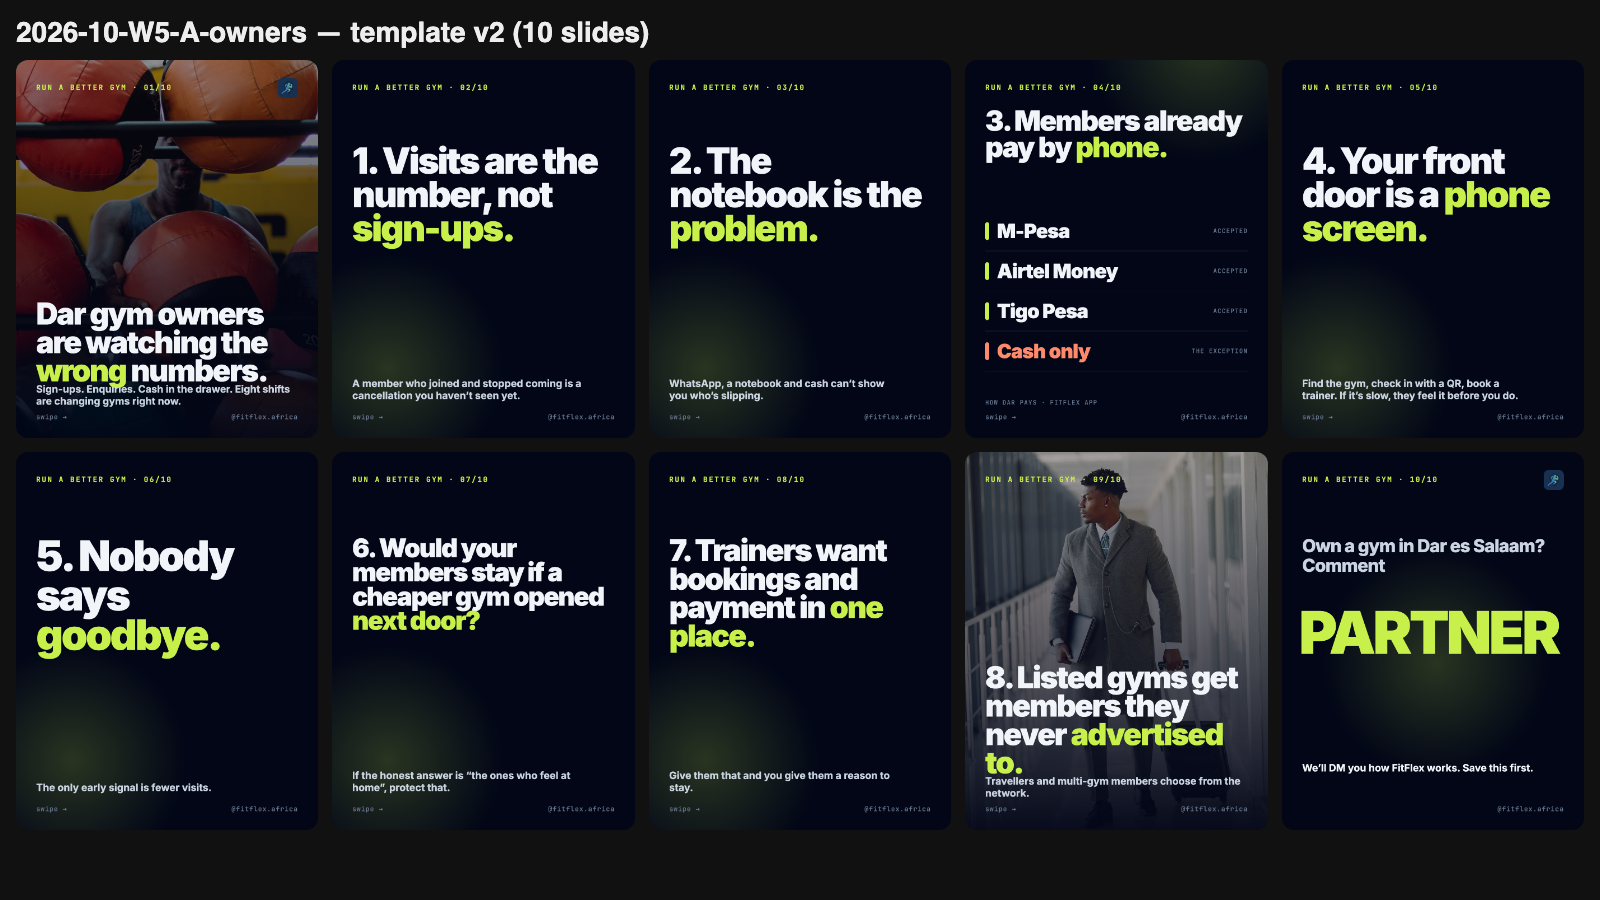
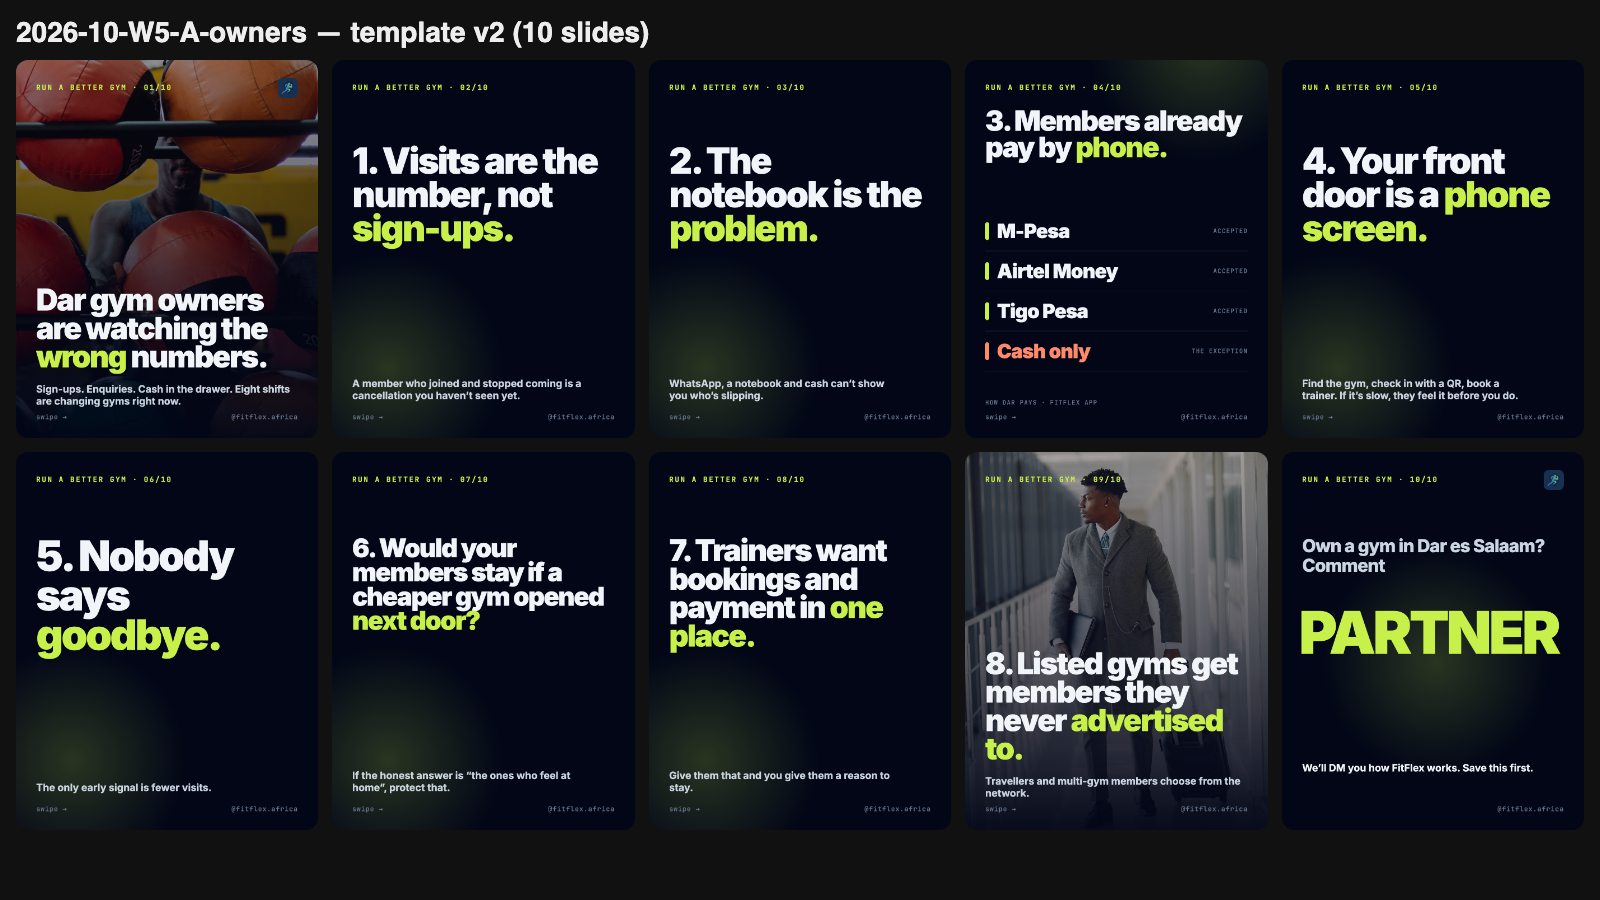
fix(social): v2 photo slides leave room for a two-line sub

Changed region(s): [[0.5938, 0.7156, 0.7812, 0.8711], [0.0, 0.3111, 0.1875, 0.4356]]

diff --git a/social/tools/render-carousel.js b/social/tools/render-carousel.js
@@ -126,7 +126,7 @@ function htmlV2(i, sl) {
  .foot{position:absolute;left:72px;bottom:112px;font-family:Mono;font-size:22px;letter-spacing:.1em;color:${V2.quiet};text-transform:uppercase}
  </style></head><body>`;
   let body = '';
-  if (kind === 'photo') body = `<div class="ph"></div><div class="scrim"></div><div class="eyebrow">${eyebrow}</div>${logo}<h1 style="position:absolute;left:72px;right:72px;bottom:${sl.s ? 190 : 150}px;font-size:${Math.min(hsize, 128)}px">${sl.h}</h1>${sl.s ? `<div class="sub" style="position:absolute;left:72px;right:72px;bottom:110px">${sl.s}</div>` : ''}`;
+  if (kind === 'photo') body = `<div class="ph"></div><div class="scrim"></div><div class="eyebrow">${eyebrow}</div>${logo}<h1 style="position:absolute;left:72px;right:72px;bottom:${sl.s ? (sl.s.replace(/<[^>]+>/g, '').length > 44 ? 240 : 190) : 150}px;font-size:${Math.min(hsize, 128)}px">${sl.h}</h1>${sl.s ? `<div class="sub" style="position:absolute;left:72px;right:72px;bottom:110px">${sl.s}</div>` : ''}`;
   else if (kind === 'list') { const tone = t => t === 'volt' ? V2.volt : t === 'fuel' ? V2.fuel : '#334155'; const rows = (sl.rows || []).map(r => `<div class="row"><div class="bar" style="background:${tone(r.tone)}"></div><div class="t" style="color:${r.tone === 'fuel' ? V2.fuel : r.tone === 'muted' ? V2.body : V2.ink}">${r.t}</div>${r.tag ? `<div class="tag">${r.tag}</div>` : ''}</div>`).join('');
     body = `<div class="glow" style="top:-500px;left:400px"></div><div class="eyebrow">${eyebrow}</div>${logo}<h1 style="position:absolute;left:72px;right:72px;top:170px;font-size:${Math.min(hsize, 100)}px">${sl.h}</h1><div style="position:absolute;left:72px;right:72px;top:${sl.top || 540}px">${rows}</div>${sl.note ? `<div class="foot">${sl.note}</div>` : ''}`; }
   else if (kind === 'cta') body = `<div class="glow" style="top:300px;left:100px"></div><div class="eyebrow">${eyebrow}</div>${logo}<div style="position:absolute;left:72px;right:72px;top:300px;font-size:64px;font-weight:800;color:${V2.body};letter-spacing:-2px;line-height:1.1">${sl.h}<br>Comment</div><div style="position:absolute;left:60px;right:40px;top:540px;font-weight:900;font-size:${sl.kwSize || 210}px;letter-spacing:-.05em;color:${V2.volt};line-height:1">${sl.kw}</div><div class="sub" style="position:absolute;left:72px;right:72px;bottom:200px;color:${V2.ink}">${sl.cta || ''}</div>`;

diff --git a/social/content/2026-10-W5-A-owners/source/E01.html b/social/content/2026-10-W5-A-owners/source/E01.html
@@ -12,4 +12,4 @@
  .glow{position:absolute;width:900px;height:900px;border-radius:50%;background:radial-gradient(circle,rgba(200,240,74,.2),rgba(200,240,74,0) 65%)}
  .row{display:flex;align-items:center;gap:28px;padding:28px 0;border-bottom:2px solid #1E293B}.row .bar{width:14px;height:64px;border-radius:7px}.row .t{font-weight:900;font-size:70px;letter-spacing:-2px}.row .tag{margin-left:auto;font-family:Mono;font-size:22px;letter-spacing:.1em;color:#64748B;text-transform:uppercase}
  .foot{position:absolute;left:72px;bottom:112px;font-family:Mono;font-size:22px;letter-spacing:.1em;color:#64748B;text-transform:uppercase}
- </style></head><body><div class="ph"></div><div class="scrim"></div><div class="eyebrow">Run a better gym · 01/10</div><img class="logo" src="file:///Users/chollo/FitFlex-worktrees/social-phase1/social/brand/assets/fitflex-logo.png"><h1 style="position:absolute;left:72px;right:72px;bottom:190px;font-size:108px">Dar gym owners are watching the <em>wrong</em> numbers.</h1><div class="sub" style="position:absolute;left:72px;right:72px;bottom:110px">Sign-ups. Enquiries. Cash in the drawer. Eight shifts are changing gyms right now.</div><div style="position:absolute;bottom:60px;left:72px;font-family:Mono;font-weight:500;font-size:24px;letter-spacing:.06em;color:#64748B">swipe →</div><div class="handle">@fitflex.africa</div></body></html>
+ </style></head><body><div class="ph"></div><div class="scrim"></div><div class="eyebrow">Run a better gym · 01/10</div><img class="logo" src="file:///Users/chollo/FitFlex-worktrees/social-phase1/social/brand/assets/fitflex-logo.png"><h1 style="position:absolute;left:72px;right:72px;bottom:240px;font-size:108px">Dar gym owners are watching the <em>wrong</em> numbers.</h1><div class="sub" style="position:absolute;left:72px;right:72px;bottom:110px">Sign-ups. Enquiries. Cash in the drawer. Eight shifts are changing gyms right now.</div><div style="position:absolute;bottom:60px;left:72px;font-family:Mono;font-weight:500;font-size:24px;letter-spacing:.06em;color:#64748B">swipe →</div><div class="handle">@fitflex.africa</div></body></html>

diff --git a/social/content/2026-10-W5-A-owners/source/E09.html b/social/content/2026-10-W5-A-owners/source/E09.html
@@ -12,4 +12,4 @@
  .glow{position:absolute;width:900px;height:900px;border-radius:50%;background:radial-gradient(circle,rgba(200,240,74,.2),rgba(200,240,74,0) 65%)}
  .row{display:flex;align-items:center;gap:28px;padding:28px 0;border-bottom:2px solid #1E293B}.row .bar{width:14px;height:64px;border-radius:7px}.row .t{font-weight:900;font-size:70px;letter-spacing:-2px}.row .tag{margin-left:auto;font-family:Mono;font-size:22px;letter-spacing:.1em;color:#64748B;text-transform:uppercase}
  .foot{position:absolute;left:72px;bottom:112px;font-family:Mono;font-size:22px;letter-spacing:.1em;color:#64748B;text-transform:uppercase}
- </style></head><body><div class="ph"></div><div class="scrim"></div><div class="eyebrow">Run a better gym · 09/10</div><h1 style="position:absolute;left:72px;right:72px;bottom:190px;font-size:108px">8. Listed gyms get members they never <em>advertised to.</em></h1><div class="sub" style="position:absolute;left:72px;right:72px;bottom:110px">Travellers and multi-gym members choose from the network.</div><div style="position:absolute;bottom:60px;left:72px;font-family:Mono;font-weight:500;font-size:24px;letter-spacing:.06em;color:#64748B">swipe →</div><div class="handle">@fitflex.africa</div></body></html>
+ </style></head><body><div class="ph"></div><div class="scrim"></div><div class="eyebrow">Run a better gym · 09/10</div><h1 style="position:absolute;left:72px;right:72px;bottom:240px;font-size:108px">8. Listed gyms get members they never <em>advertised to.</em></h1><div class="sub" style="position:absolute;left:72px;right:72px;bottom:110px">Travellers and multi-gym members choose from the network.</div><div style="position:absolute;bottom:60px;left:72px;font-family:Mono;font-weight:500;font-size:24px;letter-spacing:.06em;color:#64748B">swipe →</div><div class="handle">@fitflex.africa</div></body></html>
